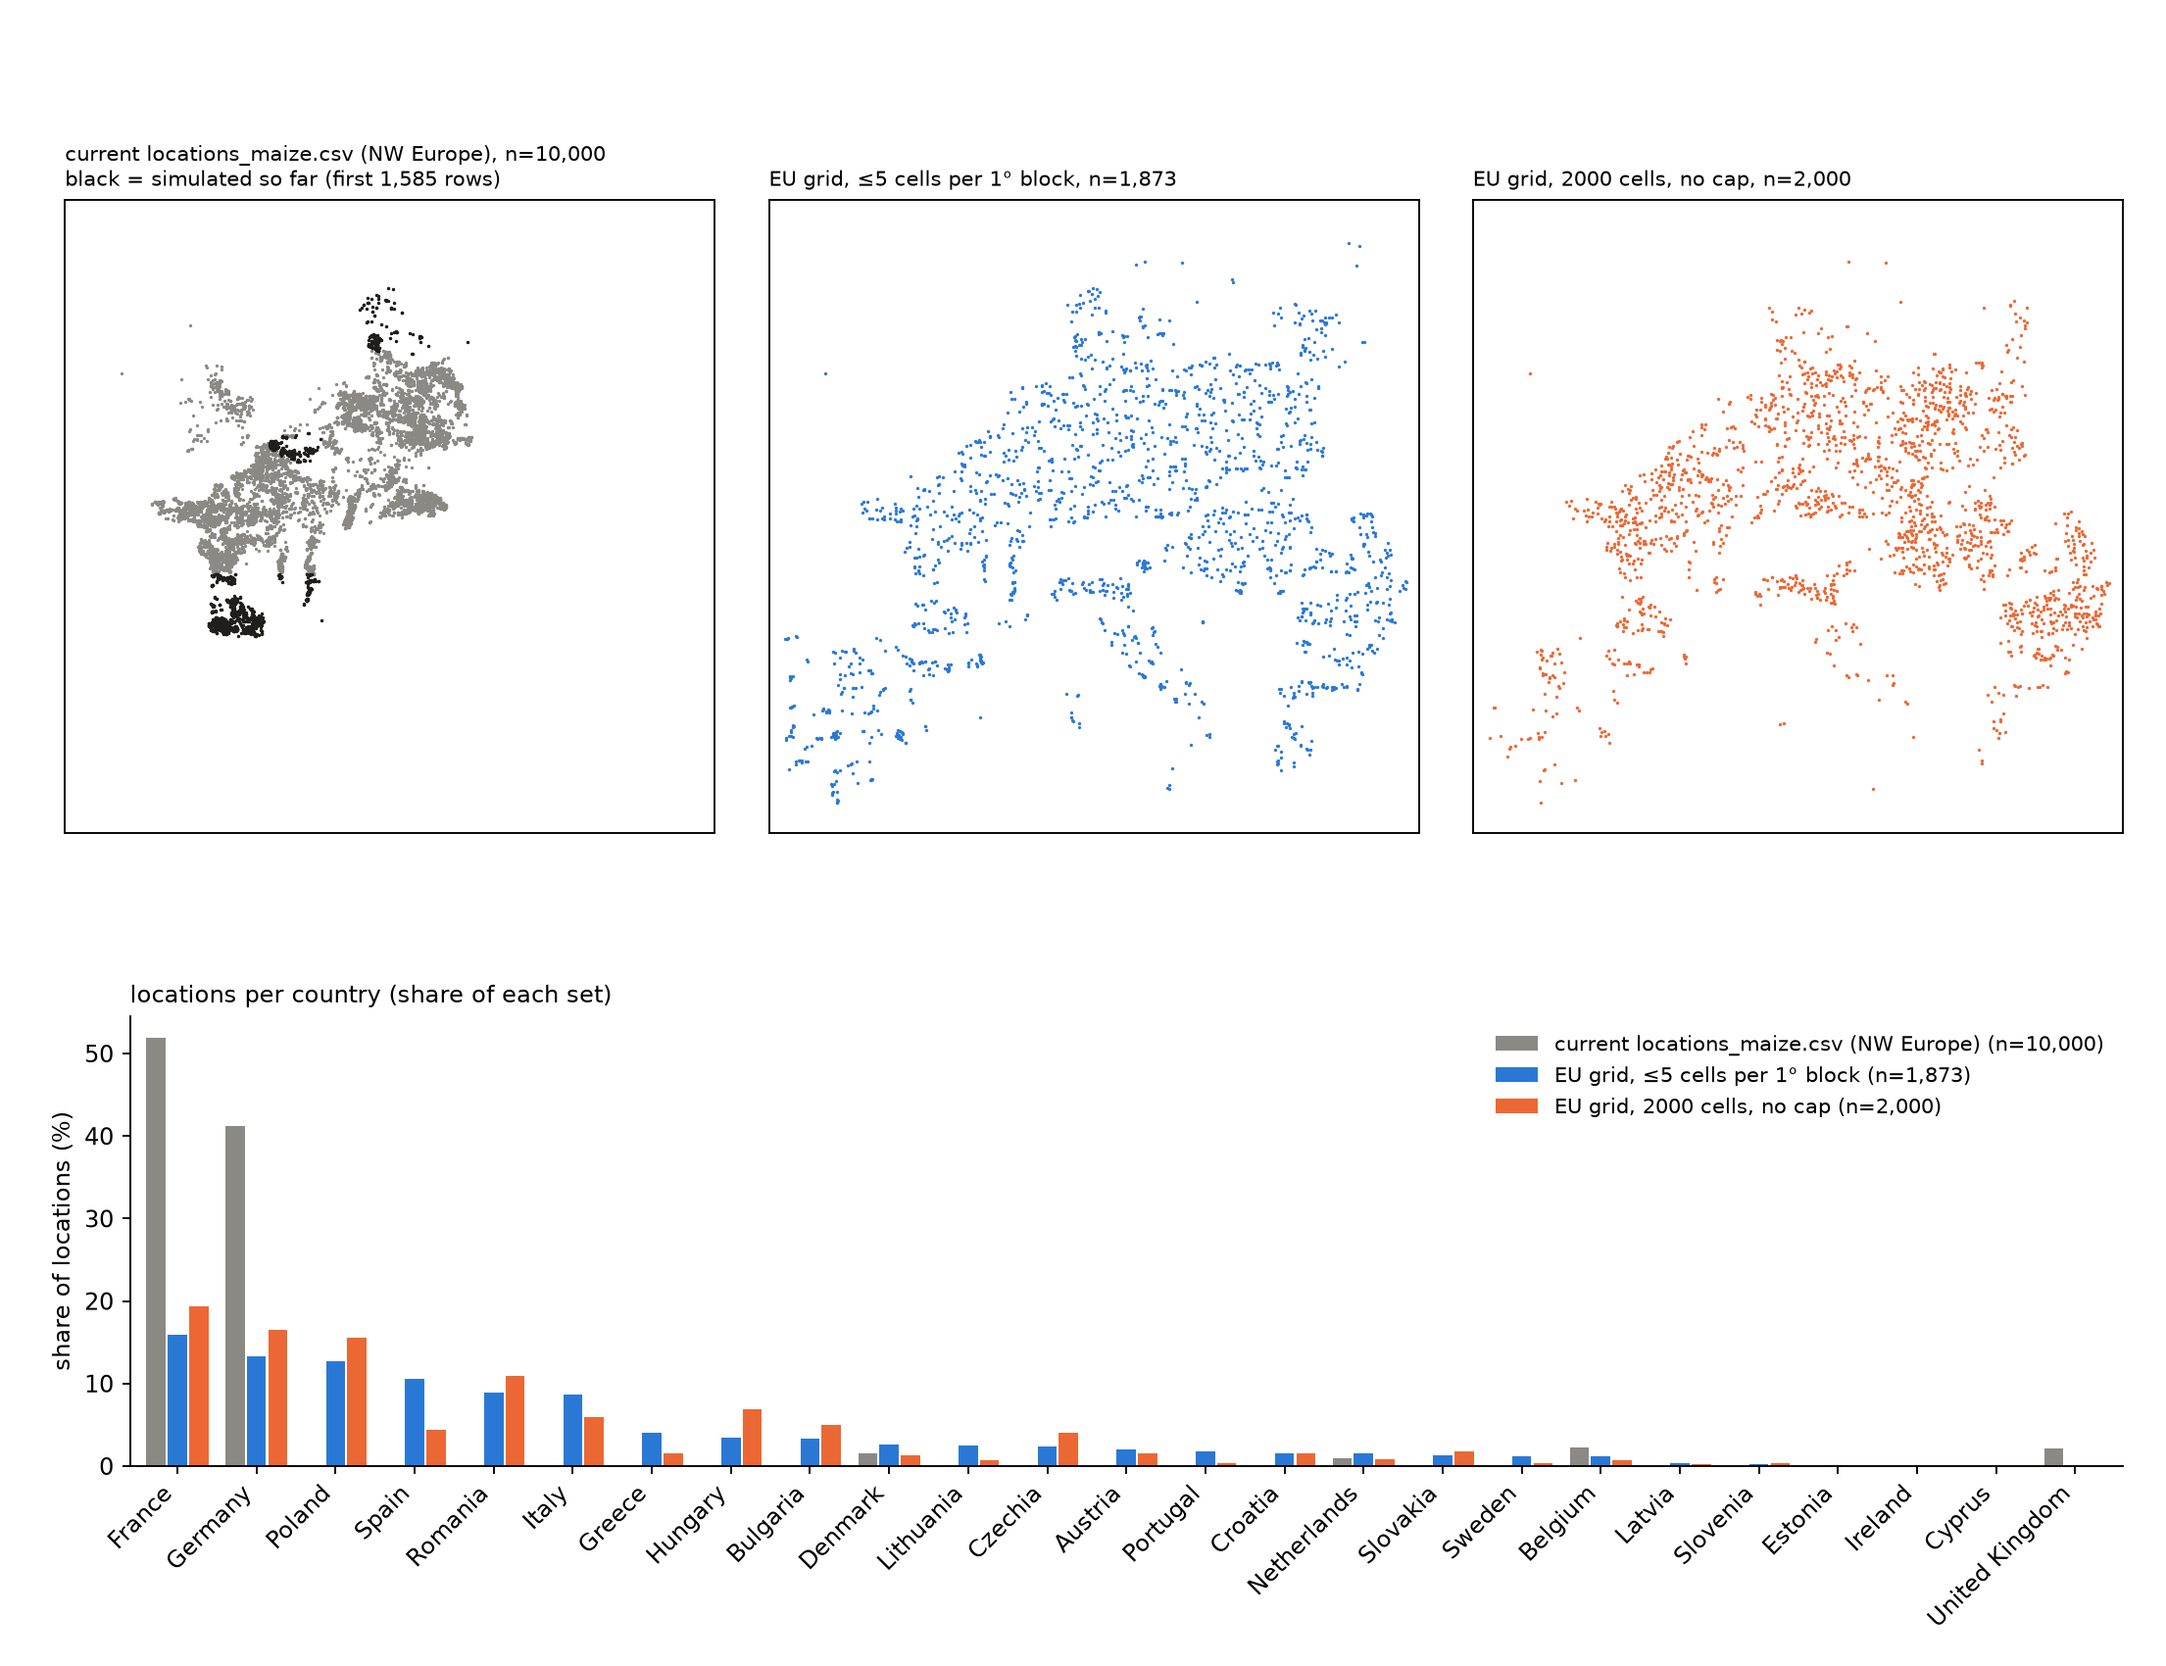
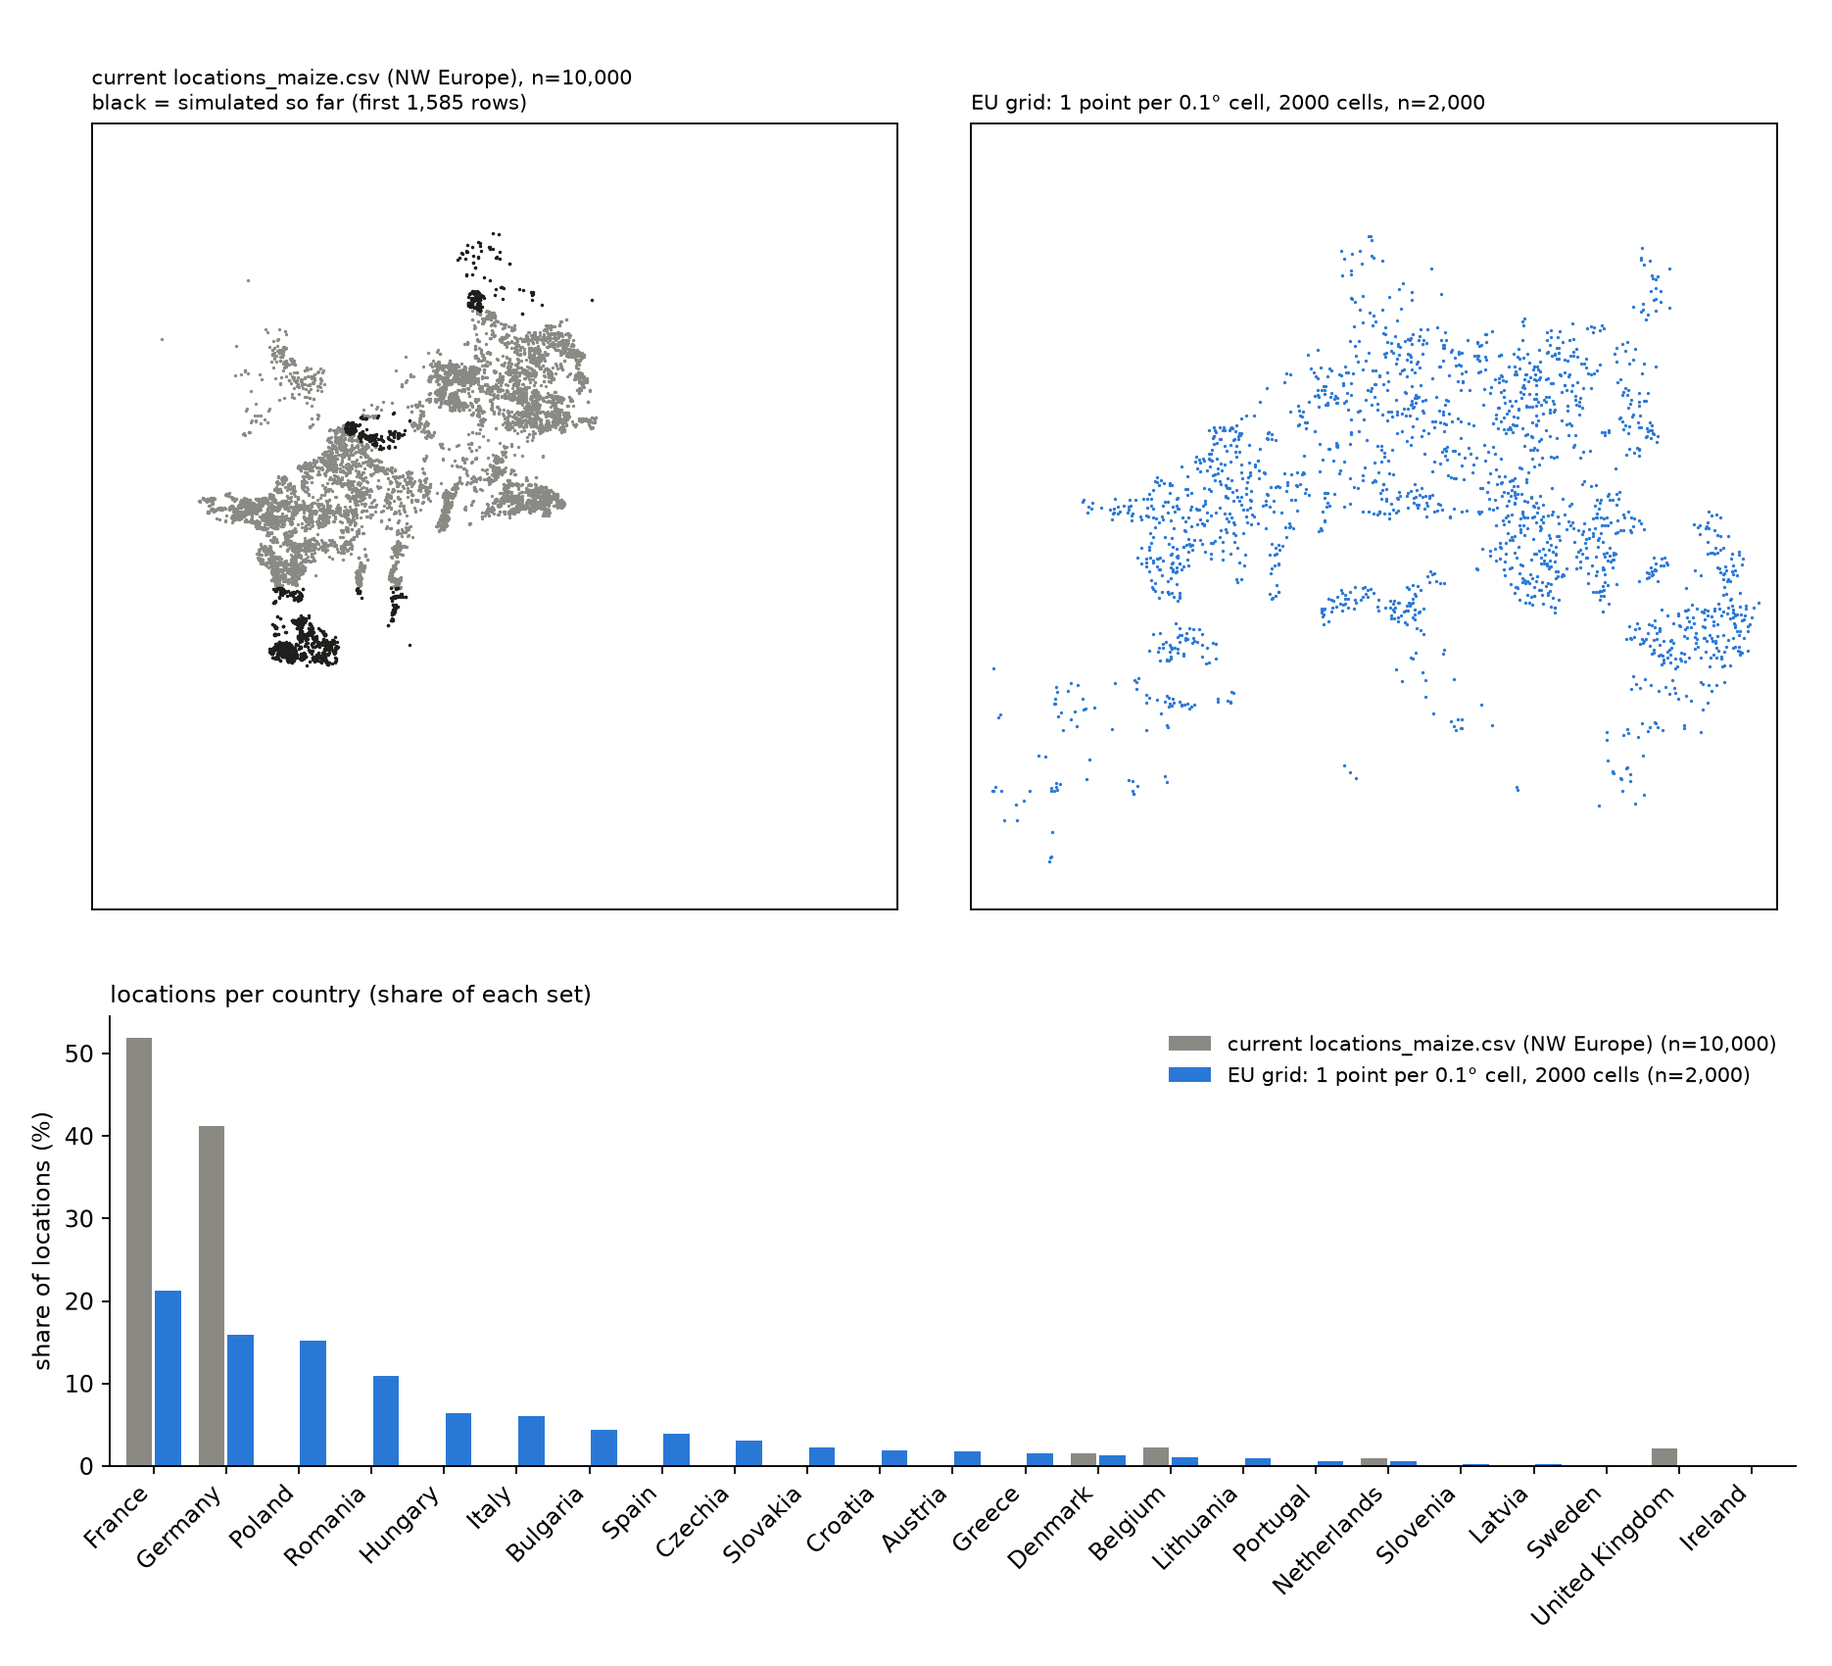
grid_sample_locations: drop the per-block cap; cells centred on multiples of 0.1 deg (one ERA5-Land pixel); final list locations_maize_eu27_cell01_n2000_s42

diff --git a/src/data_pipeline/locations/grid_sample_locations.py b/src/data_pipeline/locations/grid_sample_locations.py
@@ -1,19 +1,20 @@
-"""Spatially even simulation locations: one point per 0.1 deg maize cell (~10 km), sampled over the EU.
+"""Spatially even simulation locations: one point per 0.1 deg maize cell (one ERA5-Land pixel), over the EU.
 
-    uv run python -m src.data_pipeline.locations.grid_sample_locations --crop maize -n 2000 \
-        --max-cells-per-block 5 --seed 42 [--holdout-countries ...] [-o data/raw/locations/locations_maize_eu_grid.csv]
+    uv run python -m src.data_pipeline.locations.grid_sample_locations --crop maize -n 2000 --seed 42 \
+        [--holdout-countries ...] [-o data/raw/locations/locations_maize_eu27_cell01_n2000_s42.csv]
 
 Steps (only the grid is used, nothing from any benchmark):
 
-1. Points WorldCereal maps as the crop, in the `--countries` (default `eu27`), minus `--holdout-countries`.
-2. Each point goes to its 0.1 deg x 0.1 deg cell (`cell_id`); one random point per cell is kept, so every
-   cell where the crop grows counts once, whatever the number of reference points in it.
-3. Optional: at most `--max-cells-per-block` random cells per 1 deg x 1 deg block (`block_id`), so dense
-   crop belts don't dominate.
-4. If more cells are left than `-n`, `-n` cells are sampled uniformly at random.
+1. Points WorldCereal maps as the crop, in the `--countries` (default `eu27`), minus `--holdout-countries`
+   and points without a crop calendar.
+2. Each point goes to its 0.1 deg cell (`cell_id`). Cells are centred on multiples of 0.1 deg, like the
+   ERA5-Land grid, so one cell = one weather pixel. One random point per cell is kept, so every cell where
+   the crop grows counts once, whatever the number of reference points in it.
+3. If more cells are left than `-n`, `-n` cells are sampled uniformly at random. Locations then follow
+   where the crop is grown, spread evenly in space.
 
 All random choices use `--seed`. The output has the same columns as `extract_locations_from_zarr.py`'s
-CSV (so `generate_wofost_dataset.py` reads it unchanged) plus `cell_id` and `block_id`. A sibling
+CSV (so `generate_wofost_dataset.py` reads it unchanged) plus `cell_id`. A sibling
 `<output>_per_country.csv` counts the points per country at every step.
 """
 
@@ -32,30 +33,24 @@ from src.data_pipeline.locations.extract_locations_from_zarr import (
 ZARR_PATH = "/projects/prjs1788/CropFM/europe_data_1200_merged_cleaned2_rechunked.zarr"
 
 
-def grid_ids(lat: pd.Series, lon: pd.Series, size_deg: float) -> pd.Series:
-    """Cell id `"<lat index>_<lon index>"` of the `size_deg` grid cell containing each point."""
-    i = np.floor(lat.to_numpy() / size_deg + 1e-9).astype(int)
-    j = np.floor(lon.to_numpy() / size_deg + 1e-9).astype(int)
+def cell_ids(lat: pd.Series, lon: pd.Series, size_deg: float) -> pd.Series:
+    """Id `"<lat index>_<lon index>"` of the `size_deg` cell (centred on multiples of `size_deg`) of each point."""
+    i = np.round(lat.to_numpy() / size_deg).astype(int)
+    j = np.round(lon.to_numpy() / size_deg).astype(int)
     return pd.Series([f"{a}_{b}" for a, b in zip(i, j)], index=lat.index)
 
 
-def grid_sample(points: pd.DataFrame, num_cells: int, max_cells_per_block: int, seed: int,
-                cell_deg: float = 0.1, block_deg: float = 1.0) -> dict:
-    """Steps 2-4 of the module docstring. Returns the points after each step."""
+def grid_sample(points: pd.DataFrame, num_cells: int, seed: int, cell_deg: float = 0.1) -> dict:
+    """Steps 2-3 of the module docstring. Returns the points after each step."""
     rng = np.random.default_rng(seed)
-    points = points.assign(cell_id=grid_ids(points["latitude"], points["longitude"], cell_deg),
-                           block_id=grid_ids(points["latitude"], points["longitude"], block_deg))
-    shuffled = points.iloc[rng.permutation(len(points))]
-    cells = shuffled.drop_duplicates("cell_id")  # one random point per cell
-    capped = cells
-    if max_cells_per_block:
-        capped = cells[cells.groupby("block_id").cumcount() < max_cells_per_block]  # cells are in random order
-    selected = capped
-    if num_cells and len(capped) > num_cells:
-        selected = capped.iloc[np.sort(rng.choice(len(capped), num_cells, replace=False))]
+    points = points.assign(cell_id=cell_ids(points["latitude"], points["longitude"], cell_deg))
+    cells = points.iloc[rng.permutation(len(points))].drop_duplicates("cell_id")  # one random point per cell
+    selected = cells
+    if num_cells and len(cells) > num_cells:
+        selected = cells.iloc[np.sort(rng.choice(len(cells), num_cells, replace=False))]
     order = ["country", "zarr_index"]
     return {name: df.sort_values(order).reset_index(drop=True)
-            for name, df in (("points", points), ("cells", cells), ("capped", capped), ("selected", selected))}
+            for name, df in (("points", points), ("cells", cells), ("selected", selected))}
 
 
 def main():
@@ -65,12 +60,10 @@ def main():
     p.add_argument("--countries", nargs="+", default=["eu27"], help="Country names or groups (default eu27).")
     p.add_argument("--holdout-countries", nargs="+", default=[], help="Countries left out entirely.")
     p.add_argument("-n", "--num-cells", type=int, default=2000, help="Cell budget; 0 keeps every cell.")
-    p.add_argument("--max-cells-per-block", type=int, default=5, help="Cap per 1 deg block; 0 = no cap.")
     p.add_argument("--cell-deg", type=float, default=0.1)
-    p.add_argument("--block-deg", type=float, default=1.0)
     p.add_argument("--seed", type=int, default=42)
     p.add_argument("-o", "--output-csv", default=None,
-                   help="Default: data/raw/locations/locations_{crop}_eu_grid.csv")
+                   help="Default: data/raw/locations/locations_{crop}_eu27_cell01_n{n}_s{seed}.csv")
     args = p.parse_args()
 
     zarr = load_locations_from_zarr(args.zarr_path)
@@ -81,8 +74,8 @@ def main():
     print(f"{len(points):,} {args.crop} points; dropping {int(no_calendar.sum()):,} without a crop calendar.")
     points = points[~no_calendar]
 
-    steps = grid_sample(points, args.num_cells, args.max_cells_per_block, args.seed, args.cell_deg, args.block_deg)
-    output = args.output_csv or os.path.join(DEFAULT_LOCATIONS_DIR, f"locations_{args.crop}_eu_grid.csv")
+    steps = grid_sample(points, args.num_cells, args.seed, args.cell_deg)
+    output = args.output_csv or os.path.join(DEFAULT_LOCATIONS_DIR, f"locations_{args.crop}_eu27_cell01_n{args.num_cells}_s{args.seed}.csv")
     os.makedirs(os.path.dirname(os.path.abspath(output)), exist_ok=True)
     steps["selected"].to_csv(output, index=False)
 
@@ -91,8 +84,7 @@ def main():
         f"zarr_{args.crop}_points": zarr[zarr["worldcereal_crop_mask"] == points["worldcereal_crop_mask"].iloc[0]]
         ["country"].value_counts(),
         **{f"{name}": df["country"].value_counts() for name, df in steps.items()},
-    }).fillna(0).astype(int).rename(columns={"points": "eu_points", "cells": "cells_0.1deg",
-                                             "capped": "cells_after_block_cap"})
+    }).fillna(0).astype(int).rename(columns={"points": "eu_points", "cells": "cells_0.1deg"})
     counts = counts.sort_values(["selected", f"zarr_{args.crop}_points"], ascending=False).rename_axis("country")
     counts.to_csv(output.replace(".csv", "_per_country.csv"))
     print(counts.to_string())

diff --git a/analysis/plot_locations.py b/analysis/plot_locations.py
@@ -1,11 +1,11 @@
-"""Where the simulation locations are: the current `locations_maize.csv` vs the EU grid samples.
+"""Where the simulation locations are: the current `locations_maize.csv` vs the EU grid sample.
 
     uv run python -m analysis.plot_locations
 
-Reads the `*_per_country.csv` files `grid_sample_locations.py` writes and the locations CSVs, and writes
+Reads the `_per_country.csv` file `grid_sample_locations.py` writes and the locations CSVs, and writes
 `analysis/data/locations_per_country.csv` (points per country in the zarr, the current CSV, its simulated
-first 1585 rows, and the two grid samples) and `analysis/figures/locations_eu_grid.png` (share of
-locations per country, and maps).
+first 1585 rows, the EU maize cells and the grid sample) and `analysis/figures/locations_eu_grid.png`
+(share of locations per country, and maps).
 """
 
 import matplotlib
@@ -15,30 +15,29 @@ matplotlib.use("Agg")
 import matplotlib.pyplot as plt  # noqa: E402
 
 LOC = "data/raw/locations"
+GRID = "locations_maize_eu27_cell01_n2000_s42"
 SETS = {  # name -> (csv, label, color)
     "current": (f"{LOC}/locations_maize.csv", "current locations_maize.csv (NW Europe)", "#8a8984"),
-    "grid_cap5": (f"{LOC}/locations_maize_eu_grid.csv", "EU grid, ≤5 cells per 1° block", "#2a78d6"),
-    "grid_nocap": (f"{LOC}/locations_maize_eu_grid_nocap.csv", "EU grid, 2000 cells, no cap", "#eb6834"),
+    "grid": (f"{LOC}/{GRID}.csv", "EU grid: 1 point per 0.1° cell, 2000 cells", "#2a78d6"),
 }
 SIMULATED = 1585  # rows of locations_maize.csv with downloaded soil/weather
 
 
 def main():
     frames = {name: pd.read_csv(path) for name, (path, _, _) in SETS.items()}
-    steps = pd.read_csv(f"{LOC}/locations_maize_eu_grid_per_country.csv", index_col="country")
+    steps = pd.read_csv(f"{LOC}/{GRID}_per_country.csv", index_col="country")
     counts = steps[["zarr_all_points", "zarr_maize_points", "eu_points", "cells_0.1deg"]].join(
         pd.DataFrame({"current_csv": frames["current"]["country"].value_counts(),
                       "current_simulated": frames["current"].iloc[:SIMULATED]["country"].value_counts(),
-                      "grid_cap5": frames["grid_cap5"]["country"].value_counts(),
-                      "grid_nocap": frames["grid_nocap"]["country"].value_counts()}), how="outer")
-    counts = counts.fillna(0).astype(int).sort_values(["grid_cap5", "zarr_maize_points"], ascending=False)
+                      "grid": frames["grid"]["country"].value_counts()}), how="outer")
+    counts = counts.fillna(0).astype(int).sort_values(["grid", "zarr_maize_points"], ascending=False)
     counts.to_csv("analysis/data/locations_per_country.csv")
     print(counts.to_string())
 
-    shown = counts[(counts[["current_csv", "grid_cap5", "grid_nocap"]] > 0).any(axis=1)].index
-    fig = plt.figure(figsize=(13, 10))
+    shown = counts[(counts[["current_csv", "grid"]] > 0).any(axis=1)].index
+    fig = plt.figure(figsize=(11, 10))
     for k, (name, (_, label, color)) in enumerate(SETS.items()):
-        m = fig.add_axes([0.03 + k * 0.325, 0.43, 0.30, 0.52])
+        m = fig.add_axes([0.05 + k * 0.48, 0.43, 0.44, 0.52])
         d = frames[name]
         m.scatter(d["longitude"], d["latitude"], s=2, color=color, linewidths=0)
         if name == "current":
@@ -53,10 +52,10 @@ def main():
                     loc="left", fontsize=9)
 
     ax = fig.add_axes([0.06, 0.12, 0.92, 0.27])
-    width = 0.27
+    width = 0.4
     for k, (name, (_, label, color)) in enumerate(SETS.items()):
         share = 100 * counts.loc[shown, "current_csv" if name == "current" else name] / len(frames[name])
-        ax.bar([i + (k - 1) * width for i in range(len(shown))], share, width=width * 0.9, color=color,
+        ax.bar([i + (k - 0.5) * width for i in range(len(shown))], share, width=width * 0.9, color=color,
                label=f"{label} (n={len(frames[name]):,})")
     ax.set_xticks(range(len(shown)), shown, rotation=45, ha="right")
     ax.set_xlim(-0.6, len(shown) - 0.4)

diff --git a/docs/manual.md b/docs/manual.md
@@ -82,9 +82,10 @@ The column-by-column description of the files is in
   group `nw_europe`), then `-n` random points in total or per country
   (`--per-country`), with `--seed`.
 - **Spatially even alternative** ([`grid_sample_locations.py`](../src/data_pipeline/locations/grid_sample_locations.py)):
-  crop points in the EU (`eu27` group, minus `--holdout-countries`), one random point per 0.1° cell, at
-  most `--max-cells-per-block` cells per 1° block, then `-n` cells at random (all seeded); writes
-  `locations_{crop}_eu_grid.csv` (same columns + `cell_id`, `block_id`) and a per-country count table.
+  crop points in the EU (`eu27` group, minus `--holdout-countries`), one random point per 0.1° cell
+  (cells centred on multiples of 0.1°, like ERA5-Land, so one cell = one weather pixel), then `-n` cells
+  at random (seeded). Locations follow where the crop is grown. Writes
+  `locations_{crop}_eu27_cell01_n{n}_s{seed}.csv` (same columns + `cell_id`) and a per-country count table.
 - **Output:** `data/raw/locations/locations_{crop}.csv`. **Its row number is
   the `location_index`** used everywhere downstream; the processing step joins
   the `country` column back on that row number.
